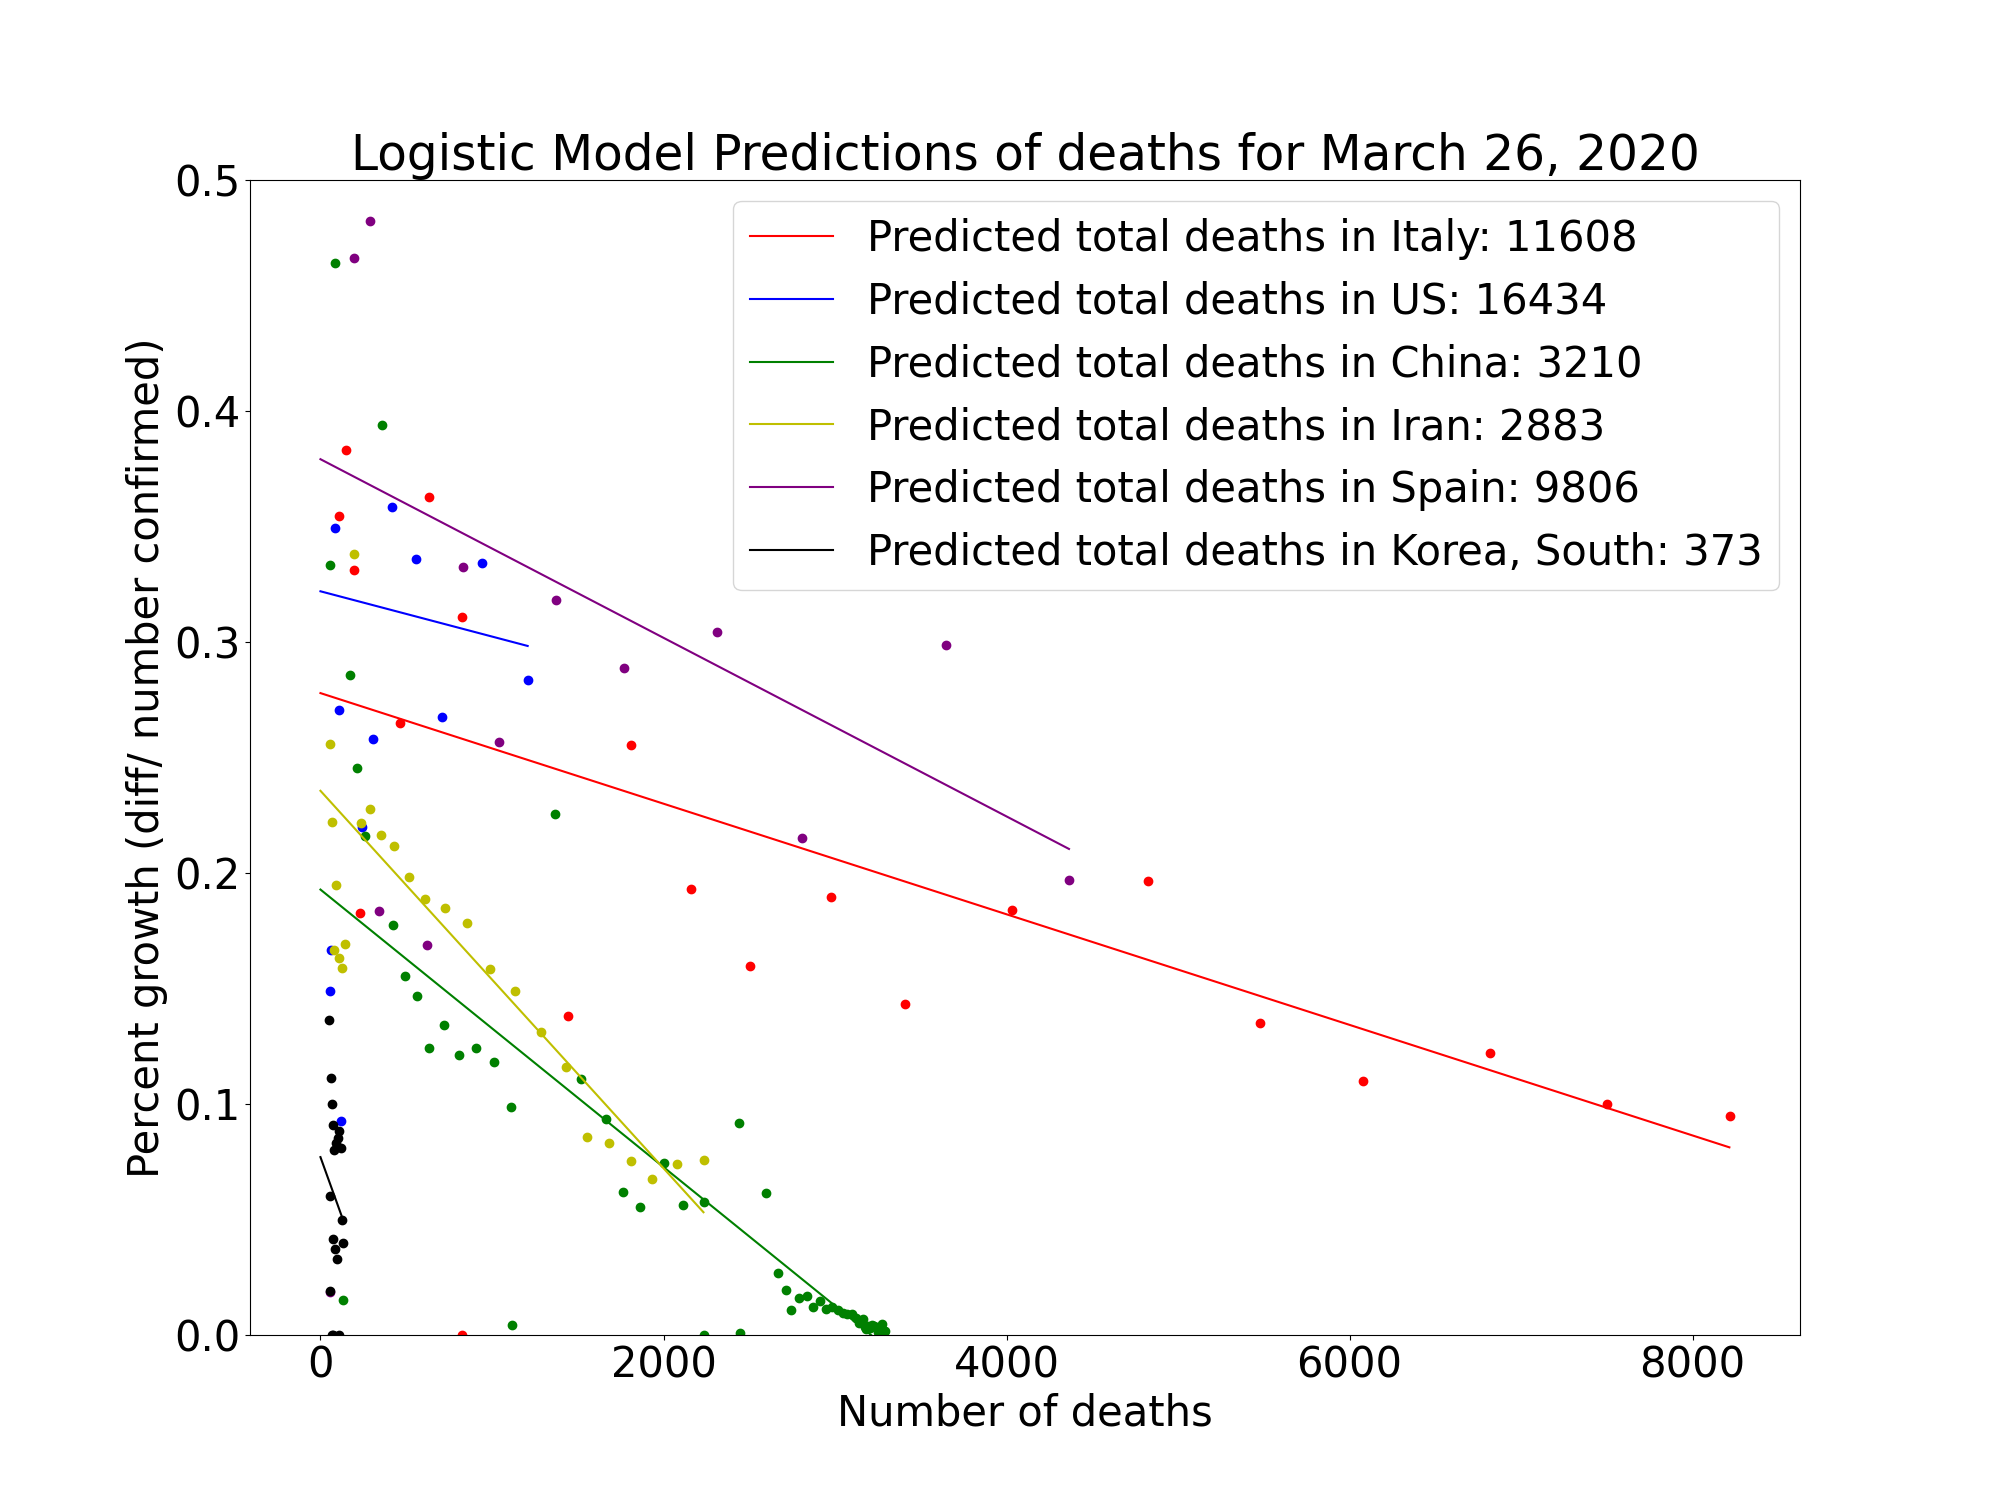
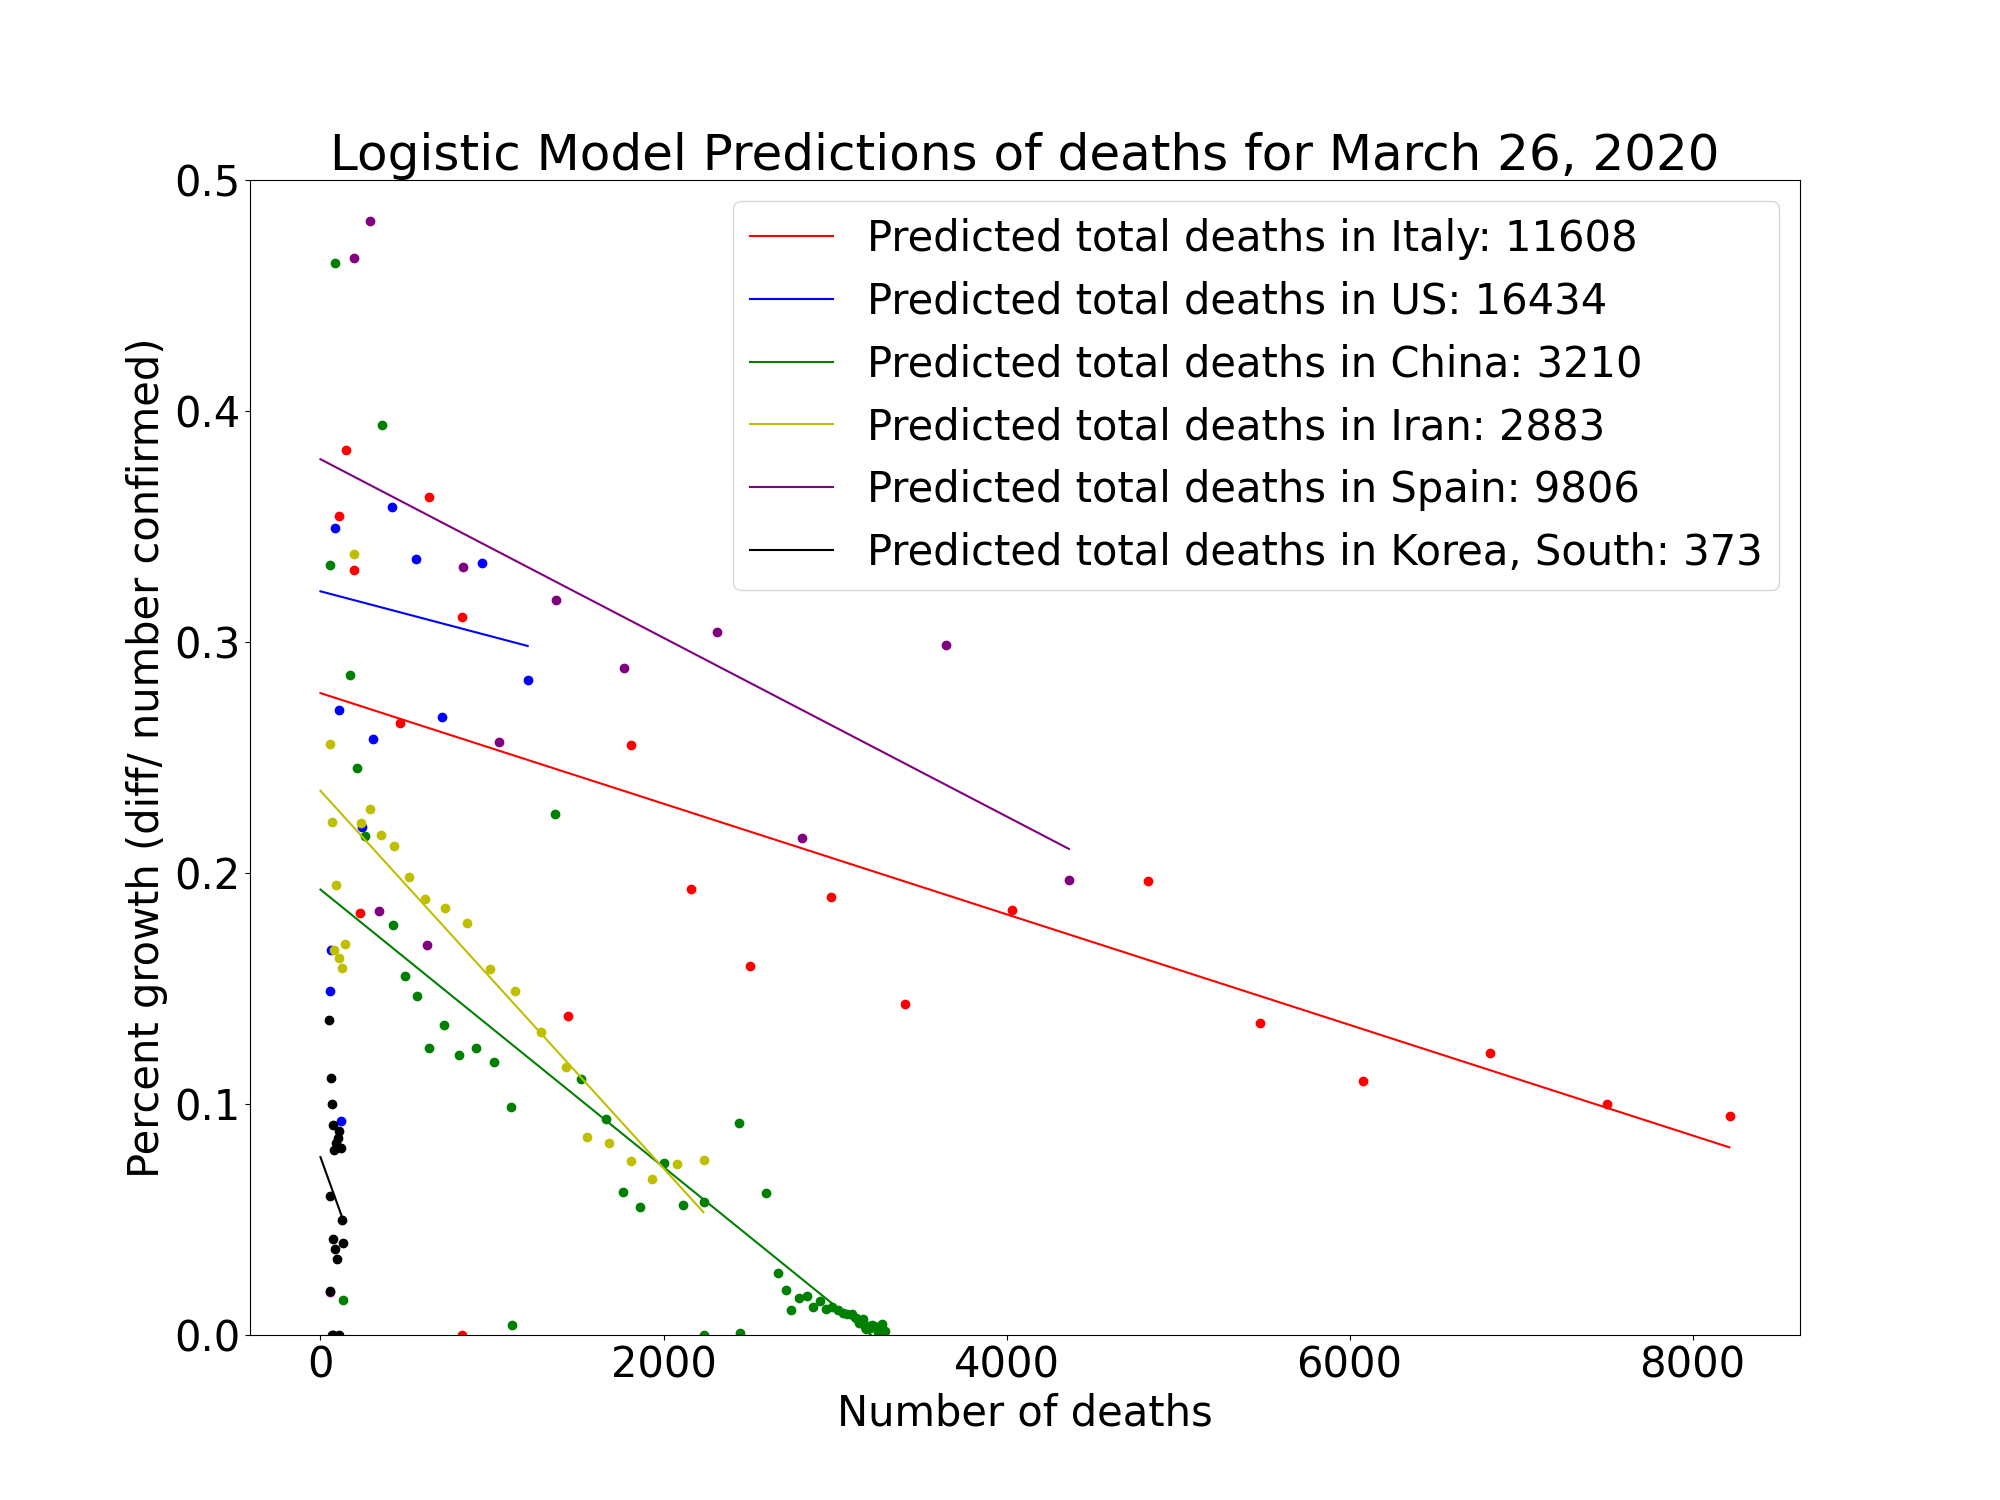
auto update

Changed region(s): [[0.527, 0.092, 0.868, 0.1227], [0.155, 0.092, 0.496, 0.1227]]

diff --git a/update_plots.py b/update_plots.py
@@ -59,5 +59,5 @@ for data_type in ('cases', 'deaths'):
     plt.grid()
     plt.ylim([0, .5])
   plt.legend(legends)
-  plt.title('Logistic Model Predictions of %s for %s' % (data_type, today), fontsize=35)
+  plt.title('Logistic Model Predictions of %s for %s' % (data_type, today))
   plt.savefig('%s.png' % data_type)
